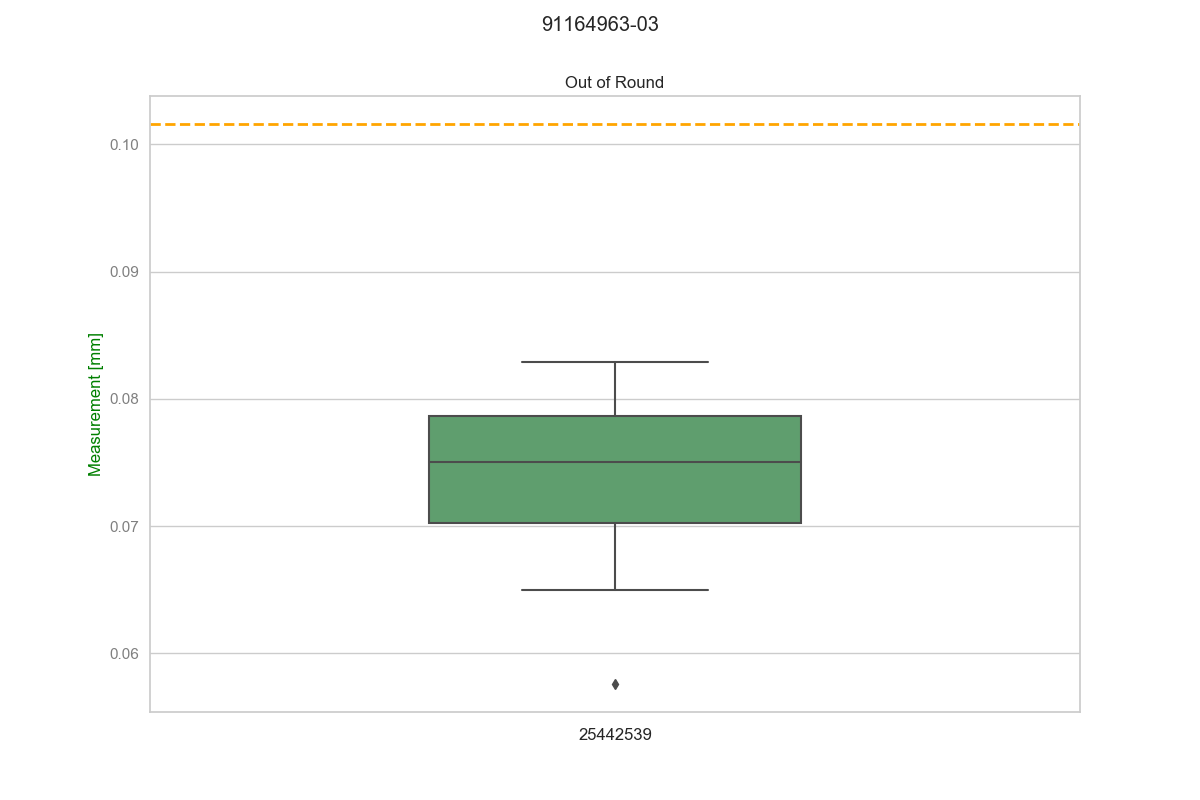
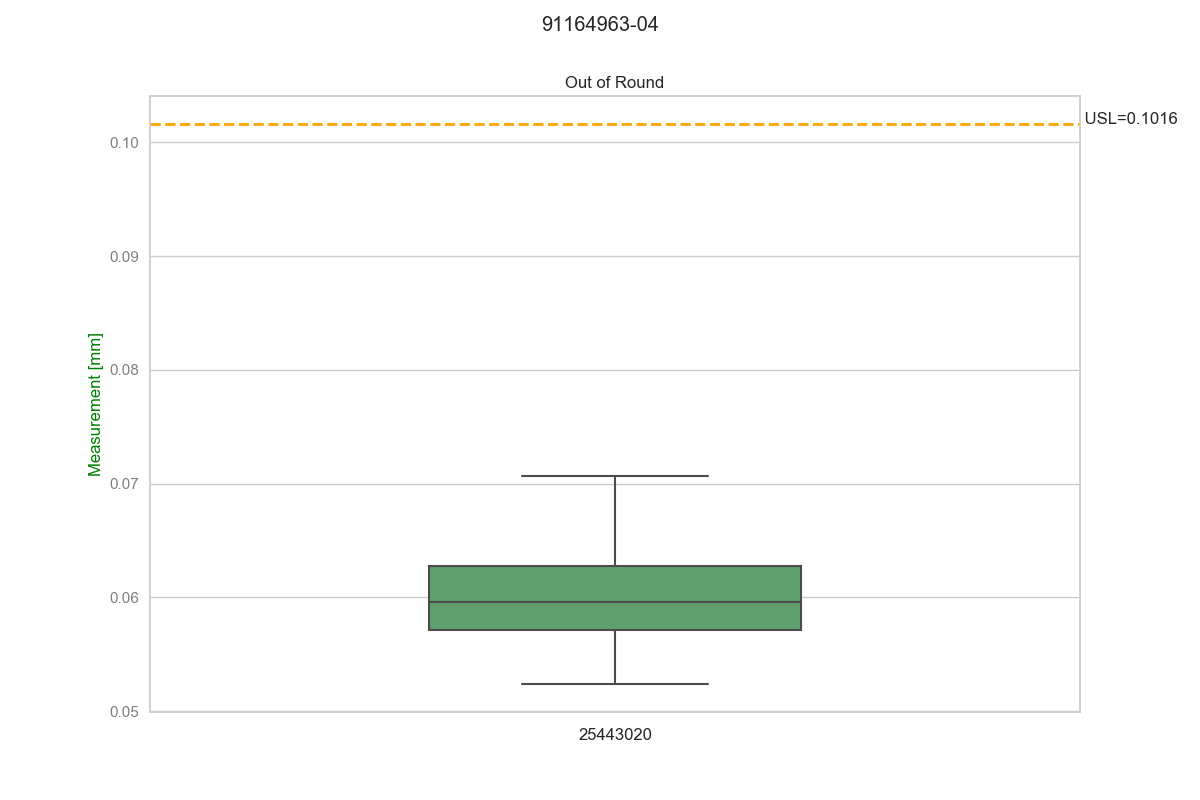
Finished Shafts Analysis File

diff --git a/Athletis Shaft Analysis File/AthletisShafts.py b/Athletis Shaft Analysis File/AthletisShafts.py
@@ -52,7 +52,7 @@ NorTestBLH = (stats.shapiro(BLH))
 NorTestGLW = (stats.shapiro(GLW))
 
 with open("summary_of_variables.txt", "a") as f:
-    f.write("\n" "==========================================================================================================")
+    f.write("\n" "=======================================================================================================================================")
     f.write("\n\n" "Normality Data: ")
     f.write("\n\n" "Part Number: ")
     f.write(part)
@@ -90,16 +90,18 @@ else:
     with open("summary_of_variables.txt", "a") as f:
         f.write("\n\n" "Guidewire Lumen Wall is not Normally Distributed" "\n\n")
 
-
 #================  histograms as part of univariate analysis  ================
 
 if part in val1:
+  
     plt.figure(figsize=(12,8))
     sns.set(style="whitegrid")
     plt.hist(OD, bins = 20, rwidth = 0.9, color = "grey", label = lot)
     plt.title("Outside Diameter")
     plt.suptitle(part)
     plt.legend(loc = "upper right")
+    plt.text(1.749, 0.1, " LSL=1.749")
+    plt.text(1.851, 0.1, " USL=1.851")
     plt.axvline(x=1.749, color = "r", linewidth=2, linestyle = "dashed")
     plt.axvline(x=1.851, color = "r", linewidth=2, linestyle = "dashed")
     plt.tick_params(axis='x', colors='grey', direction='out', length=4, width=2)
@@ -115,7 +117,10 @@ if part in val1:
     plt.title("Outside Diameter")
     plt.suptitle(part)
     plt.legend(loc = "upper right")
-    plt.axhline(y=1.749, color = "g", linewidth=2, linestyle = "dashed")
+    plt.xlim((0, 24))
+    plt.text(24.1, 1.746, " LSL=1.749")
+    plt.text(24.1, 1.850, " USL=1.851")
+    plt.axhline(y=1.747, color = "g", linewidth=2, linestyle = "dashed")
     plt.axhline(y=1.851, color = "g", linewidth=2, linestyle = "dashed")
     plt.tick_params(axis='x', colors='grey', direction='out', length=4, width=2)
     plt.tick_params(axis='y', colors='grey', direction='out', length=4, width=2)
@@ -131,6 +136,8 @@ if part in val1:
     sns.boxplot(y = OD, color = "g", width = 0.4)
     plt.title("Outside Diameter")
     plt.suptitle(part)
+    plt.text(0.5, 1.748, " LSL=1.749")
+    plt.text(0.5, 1.850, " USL=1.851")
     plt.axhline(y=1.749, color = "orange", linewidth=2, linestyle = "dashed")
     plt.axhline(y=1.851, color = "orange", linewidth=2, linestyle = "dashed")
     plt.tick_params(axis='x', colors='grey', direction='out', length=4, width=2)
@@ -147,6 +154,7 @@ if part in val1:
     plt.title("Out of Round")
     plt.suptitle(part)
     plt.legend(loc = "upper right")
+    plt.text(0.1016, 0.1, " USL=0.1016")
     plt.axvline(x=0.1016, color = "g", linewidth=2, linestyle = "dashed")
     plt.tick_params(axis='x', colors='grey', direction='out', length=4, width=2)
     plt.xlabel("Measurment [mm]", color = "green")
@@ -161,6 +169,8 @@ if part in val1:
     plt.title("Out of Round")
     plt.suptitle(part)
     plt.legend(loc = "upper right")
+    plt.xlim((0, 24))
+    plt.text(24.1, 0.1016, " USL=0.1016")
     plt.axhline(y=0.1016, color = "g", linewidth=2, linestyle = "dashed")
     plt.tick_params(axis='x', colors='grey', direction='out', length=4, width=2)
     plt.tick_params(axis='y', colors='grey', direction='out', length=4, width=2)
@@ -176,6 +186,7 @@ if part in val1:
     sns.boxplot(y = OoR, color = "g", width = 0.4)
     plt.title("Out of Round")
     plt.suptitle(part)
+    plt.text(0.5, 0.1016, " USL=0.1016")
     plt.axhline(y=0.1016, color = "orange", linewidth=2, linestyle = "dashed")
     plt.tick_params(axis='x', colors='grey', direction='out', length=4, width=2)
     plt.tick_params(axis='y', colors='grey', direction='out', length=4, width=2)
@@ -191,6 +202,8 @@ if part in val1:
     plt.title("Inter Lumen Wall")
     plt.suptitle(part)
     plt.legend(loc = "upper right")
+    plt.text(0.1041, 0.1, " LSL=0.1041")
+    plt.text(0.1245, 0.1, " USL=0.1245")
     plt.axvline(x=0.1041, color = "g", linewidth=2, linestyle = "dashed")
     plt.axvline(x=0.1245, color = "g", linewidth=2, linestyle = "dashed")
     plt.tick_params(axis='x', colors='grey', direction='out', length=4, width=2)
@@ -206,6 +219,9 @@ if part in val1:
     plt.title("Inter Lumen Wall")
     plt.suptitle(part)
     plt.legend(loc = "upper right")
+    plt.xlim((0, 24))
+    plt.text(24.1, 0.1041, " LSL=0.1041")
+    plt.text(24.1, 0.1245, " USL=0.1245")
     plt.axhline(y=0.1041, color = "g", linewidth=2, linestyle = "dashed")
     plt.axhline(y=0.1245, color = "g", linewidth=2, linestyle = "dashed")
     plt.tick_params(axis='x', colors='grey', direction='out', length=4, width=2)
@@ -222,6 +238,8 @@ if part in val1:
     sns.boxplot(y = ILW, color = "g", width = 0.4)
     plt.title("Inter Lumen Wall")
     plt.suptitle(part)
+    plt.text(0.5, 0.1041, " LSL=0.1041")
+    plt.text(0.5, 0.1245, " USL=0.1245")
     plt.axhline(y=0.1041, color = "orange", linewidth=2, linestyle = "dashed")
     plt.axhline(y=0.1245, color = "orange", linewidth=2, linestyle = "dashed")
     plt.tick_params(axis='x', colors='grey', direction='out', length=4, width=2)
@@ -238,6 +256,7 @@ if part in val1:
     plt.title("Guidewire Lumen Wall")
     plt.suptitle(part)
     plt.legend(loc = "upper right")
+    plt.text(0.127, 0.1, " LSL=0.127")
     plt.axvline(x=0.127, color = "g", linewidth=2, linestyle = "dashed")
     plt.tick_params(axis='x', colors='grey', direction='out', length=4, width=2)
     plt.xlabel("Measurment [mm]", color = "green")
@@ -252,6 +271,8 @@ if part in val1:
     plt.title("Guidewire Lumen Wall")
     plt.suptitle(part)
     plt.legend(loc = "upper right")
+    plt.xlim((0, 24))
+    plt.text(24.1, 0.127, " LSL=0.127")
     plt.axhline(y=0.127, color = "g", linewidth=2, linestyle = "dashed")
     plt.tick_params(axis='x', colors='grey', direction='out', length=4, width=2)
     plt.tick_params(axis='y', colors='grey', direction='out', length=4, width=2)
@@ -267,6 +288,7 @@ if part in val1:
     sns.boxplot(y = GLW, color = "g", width = 0.4)
     plt.title("Guidewire Lumen Wall")
     plt.suptitle(part)
+    plt.text(0.5, 0.127, " LSL=0.127")
     plt.axhline(y=0.127, color = "orange", linewidth=2, linestyle = "dashed")
     plt.tick_params(axis='x', colors='grey', direction='out', length=4, width=2)
     plt.tick_params(axis='y', colors='grey', direction='out', length=4, width=2)
@@ -282,6 +304,8 @@ if part in val1:
     plt.title("Balloon Lumen Height")
     plt.suptitle(part)
     plt.legend(loc = "upper right")
+    plt.text(0.4064, 0.1, " LSL=0.4064")
+    plt.text(0.4572, 0.1, " USL=0.4572")
     plt.axvline(x=0.4064, color = "g", linewidth=2, linestyle = "dashed")
     plt.axvline(x=0.4572, color = "g", linewidth=2, linestyle = "dashed")
     plt.tick_params(axis='x', colors='grey', direction='out', length=4, width=2)
@@ -297,6 +321,9 @@ if part in val1:
     plt.title("Balloon Lumen Height")
     plt.suptitle(part)
     plt.legend(loc = "upper right")
+    plt.xlim((0, 24))
+    plt.text(24.1, 0.4064, " LSL=0.4064")
+    plt.text(24.1, 0.4572, " USL=0.4572")
     plt.axhline(y=0.4064, color = "g", linewidth=2, linestyle = "dashed")
     plt.axhline(y=0.4572, color = "g", linewidth=2, linestyle = "dashed")
     plt.tick_params(axis='x', colors='grey', direction='out', length=4, width=2)
@@ -313,6 +340,8 @@ if part in val1:
     sns.boxplot(y = BLH, color = "g", width = 0.4)
     plt.title("Balloon Lumen Height")
     plt.suptitle(part)
+    plt.text(0.5, 0.4064, " LSL=0.4064")
+    plt.text(0.5, 0.4572, " USL=0.4572")
     plt.axhline(y=0.4064, color = "orange", linewidth=2, linestyle = "dashed")
     plt.axhline(y=0.4572, color = "orange", linewidth=2, linestyle = "dashed")
     plt.tick_params(axis='x', colors='grey', direction='out', length=4, width=2)
@@ -331,6 +360,8 @@ elif part in val2:
     plt.title("Outside Diameter")
     plt.suptitle(part)
     plt.legend(loc = "upper right")
+    plt.text(1.854, 0.1, " LSL=1.854")
+    plt.text(1.956, 0.1, " USL=1.956")
     plt.axvline(x=1.854, color = "r", linewidth=2, linestyle = "dashed")
     plt.axvline(x=1.956, color = "r", linewidth=2, linestyle = "dashed")
     plt.tick_params(axis='x', colors='grey', direction='out', length=4, width=2)
@@ -346,8 +377,11 @@ elif part in val2:
     plt.title("Outside Diameter")
     plt.suptitle(part)
     plt.legend(loc = "upper right")
-    plt.axhline(y=1.854, color = "g", linewidth=2, linestyle = "dashed", label = "test")
-    plt.axhline(y=1.956, color = "g", linewidth=2, linestyle = "dashed", label = "test")
+    plt.xlim((0, 24))
+    plt.text(24.1, 1.854, " LSL=1.854")
+    plt.text(24.1, 1.956, " USL=1.956")
+    plt.axhline(y=1.854, color = "g", linewidth=2, linestyle = "dashed")
+    plt.axhline(y=1.956, color = "g", linewidth=2, linestyle = "dashed")
     plt.tick_params(axis='x', colors='grey', direction='out', length=4, width=2)
     plt.tick_params(axis='y', colors='grey', direction='out', length=4, width=2)
     plt.xlabel("Time", color = "green")
@@ -362,8 +396,10 @@ elif part in val2:
     sns.boxplot(y = OD, color = "g", width = 0.4)
     plt.title("Outside Diameter")
     plt.suptitle(part)
-    plt.axhline(y=1.854, color = "orange", linewidth=2, linestyle = "dashed", label = "test")
-    plt.axhline(y=1.956, color = "orange", linewidth=2, linestyle = "dashed", label = "test")
+    plt.text(0.5, 1.854, " LSL=1.854")
+    plt.text(0.5, 1.956, " USL=1.956")
+    plt.axhline(y=1.854, color = "orange", linewidth=2, linestyle = "dashed")
+    plt.axhline(y=1.956, color = "orange", linewidth=2, linestyle = "dashed")
     plt.tick_params(axis='x', colors='grey', direction='out', length=4, width=2)
     plt.tick_params(axis='y', colors='grey', direction='out', length=4, width=2)
     plt.xlabel(lot)
@@ -378,7 +414,8 @@ elif part in val2:
     plt.title("Out of Round")
     plt.suptitle(part)
     plt.legend(loc = "upper right")
-    plt.axvline(x=0.1016, color = "g", linewidth=2, linestyle = "dashed", label = "test")
+    plt.text(0.1016, 0.1, " USL=0.1016")
+    plt.axvline(x=0.1016, color = "g", linewidth=2, linestyle = "dashed")
     plt.tick_params(axis='x', colors='grey', direction='out', length=4, width=2)
     plt.xlabel("Measurment [mm]", color = "green")
     plt.ylabel("Observations", color = "green")
@@ -392,7 +429,9 @@ elif part in val2:
     plt.title("Out of Round")
     plt.suptitle(part)
     plt.legend(loc = "upper right")
-    plt.axhline(y=0.1016, color = "g", linewidth=2, linestyle = "dashed", label = "test")
+    plt.xlim((0, 24))
+    plt.text(24.1, 0.1016, " USL=0.1016")
+    plt.axhline(y=0.1016, color = "g", linewidth=2, linestyle = "dashed")
     plt.tick_params(axis='x', colors='grey', direction='out', length=4, width=2)
     plt.tick_params(axis='y', colors='grey', direction='out', length=4, width=2)
     plt.xlabel("Time", color = "green")
@@ -407,7 +446,8 @@ elif part in val2:
     sns.boxplot(y = OoR, color = "g", width = 0.4)
     plt.title("Out of Round")
     plt.suptitle(part)
-    plt.axhline(y=0.1016, color = "orange", linewidth=2, linestyle = "dashed", label = "test")
+    plt.text(0.5, 0.1016, " USL=0.1016")
+    plt.axhline(y=0.1016, color = "orange", linewidth=2, linestyle = "dashed")
     plt.tick_params(axis='x', colors='grey', direction='out', length=4, width=2)
     plt.tick_params(axis='y', colors='grey', direction='out', length=4, width=2)
     plt.xlabel(lot)
@@ -422,8 +462,10 @@ elif part in val2:
     plt.title("Inter Lumen Wall")
     plt.suptitle(part)
     plt.legend(loc = "upper right")
-    plt.axvline(x=0.1016, color = "g", linewidth=2, linestyle = "dashed", label = "test")
-    plt.axvline(x=0.132, color = "g", linewidth=2, linestyle = "dashed", label = "test")
+    plt.text(0.1016, 0.1, " LSL=0.1016")
+    plt.text(0.132, 0.1, " USL=0.132")
+    plt.axvline(x=0.1016, color = "g", linewidth=2, linestyle = "dashed")
+    plt.axvline(x=0.132, color = "g", linewidth=2, linestyle = "dashed")
     plt.tick_params(axis='x', colors='grey', direction='out', length=4, width=2)
     plt.xlabel("Measurment [mm]", color = "green")
     plt.ylabel("Observations", color = "green")
@@ -437,8 +479,11 @@ elif part in val2:
     plt.title("Inter Lumen Wall")
     plt.suptitle(part)
     plt.legend(loc = "upper right")
-    plt.axhline(y=0.1016, color = "g", linewidth=2, linestyle = "dashed", label = "test")
-    plt.axhline(y=0.132, color = "g", linewidth=2, linestyle = "dashed", label = "test")
+    plt.xlim((0, 24))
+    plt.text(24.1, 0.1016, " LSL=0.1016")
+    plt.text(24.1, 0.132, " USL=0.132")
+    plt.axhline(y=0.1016, color = "g", linewidth=2, linestyle = "dashed")
+    plt.axhline(y=0.132, color = "g", linewidth=2, linestyle = "dashed")
     plt.tick_params(axis='x', colors='grey', direction='out', length=4, width=2)
     plt.tick_params(axis='y', colors='grey', direction='out', length=4, width=2)
     plt.xlabel("Time", color = "green")
@@ -453,8 +498,10 @@ elif part in val2:
     sns.boxplot(y = ILW, color = "g", width = 0.4)
     plt.title("Inter Lumen Wall")
     plt.suptitle(part)
-    plt.axhline(y=0.1016, color = "orange", linewidth=2, linestyle = "dashed", label = "test")
-    plt.axhline(y=0.132, color = "orange", linewidth=2, linestyle = "dashed", label = "test")
+    plt.text(0.5, 0.1016, " LSL=0.1016")
+    plt.text(0.5, 0.132, " USL=0.132")
+    plt.axhline(y=0.1016, color = "orange", linewidth=2, linestyle = "dashed")
+    plt.axhline(y=0.132, color = "orange", linewidth=2, linestyle = "dashed")
     plt.tick_params(axis='x', colors='grey', direction='out', length=4, width=2)
     plt.tick_params(axis='y', colors='grey', direction='out', length=4, width=2)
     plt.xlabel(lot)
@@ -469,7 +516,8 @@ elif part in val2:
     plt.title("Guidewire Lumen Wall")
     plt.suptitle(part)
     plt.legend(loc = "upper right")
-    plt.axvline(x=0.1524, color = "g", linewidth=2, linestyle = "dashed", label = "test")
+    plt.text(0.1524, 0.1, " LSL=0.1524")
+    plt.axvline(x=0.1524, color = "g", linewidth=2, linestyle = "dashed")
     plt.tick_params(axis='x', colors='grey', direction='out', length=4, width=2)
     plt.xlabel("Measurment [mm]", color = "green")
     plt.ylabel("Observations", color = "green")
@@ -483,7 +531,9 @@ elif part in val2:
     plt.title("Guidewire Lumen Wall")
     plt.suptitle(part)
     plt.legend(loc = "upper right")
-    plt.axhline(y=0.1524, color = "g", linewidth=2, linestyle = "dashed", label = "test")
+    plt.xlim((0, 24))
+    plt.text(24.1, 0.1524, " LSL=0.1524")
+    plt.axhline(y=0.1524, color = "g", linewidth=2, linestyle = "dashed")
     plt.tick_params(axis='x', colors='grey', direction='out', length=4, width=2)
     plt.tick_params(axis='y', colors='grey', direction='out', length=4, width=2)
     plt.xlabel("Time", color = "green")
@@ -498,7 +548,8 @@ elif part in val2:
     sns.boxplot(y = GLW, color = "g", width = 0.4)
     plt.title("Guidewire Lumen Wall")
     plt.suptitle(part)
-    plt.axhline(y=0.1524, color = "orange", linewidth=2, linestyle = "dashed", label = "test")
+    plt.text(0.5, 0.1524, " LSL=0.1524")
+    plt.axhline(y=0.1524, color = "orange", linewidth=2, linestyle = "dashed")
     plt.tick_params(axis='x', colors='grey', direction='out', length=4, width=2)
     plt.tick_params(axis='y', colors='grey', direction='out', length=4, width=2)
     plt.xlabel(lot)
@@ -513,7 +564,8 @@ elif part in val2:
     plt.title("Balloon Lumen Height")
     plt.suptitle(part)
     plt.legend(loc = "upper right")
-    plt.axvline(x=0.4445, color = "g", linewidth=2, linestyle = "dashed", label = "test")
+    plt.text(0.4445, 0.1, " LSL=0.4445")
+    plt.axvline(x=0.4445, color = "g", linewidth=2, linestyle = "dashed")
     plt.tick_params(axis='x', colors='grey', direction='out', length=4, width=2)
     plt.xlabel("Measurment [mm]", color = "green")
     plt.ylabel("Observations", color = "green")
@@ -527,7 +579,9 @@ elif part in val2:
     plt.title("Balloon Lumen Height")
     plt.suptitle(part)
     plt.legend(loc = "upper right")
-    plt.axhline(y=0.4445, color = "g", linewidth=2, linestyle = "dashed", label = "test")
+    plt.xlim((0, 24))
+    plt.text(24.1, 0.4445, " LSL=0.4445")
+    plt.axhline(y=0.4445, color = "g", linewidth=2, linestyle = "dashed")
     plt.tick_params(axis='x', colors='grey', direction='out', length=4, width=2)
     plt.tick_params(axis='y', colors='grey', direction='out', length=4, width=2)
     plt.xlabel("Time", color = "green")
@@ -540,9 +594,10 @@ elif part in val2:
     plt.figure(figsize=(12,8))
     sns.set(style="whitegrid")
     sns.boxplot(y = BLH, color = "g", width = 0.4)
-    plt.title("Outside Diameter")
+    plt.title("Balloon Lumen Height")
     plt.suptitle(part)
-    plt.axhline(y=0.4445, color = "orange", linewidth=2, linestyle = "dashed", label = "test")
+    plt.text(0.5, 0.4445, " LSL=0.4445")
+    plt.axhline(y=0.4445, color = "orange", linewidth=2, linestyle = "dashed")
     plt.tick_params(axis='x', colors='grey', direction='out', length=4, width=2)
     plt.tick_params(axis='y', colors='grey', direction='out', length=4, width=2)
     plt.xlabel(lot)
